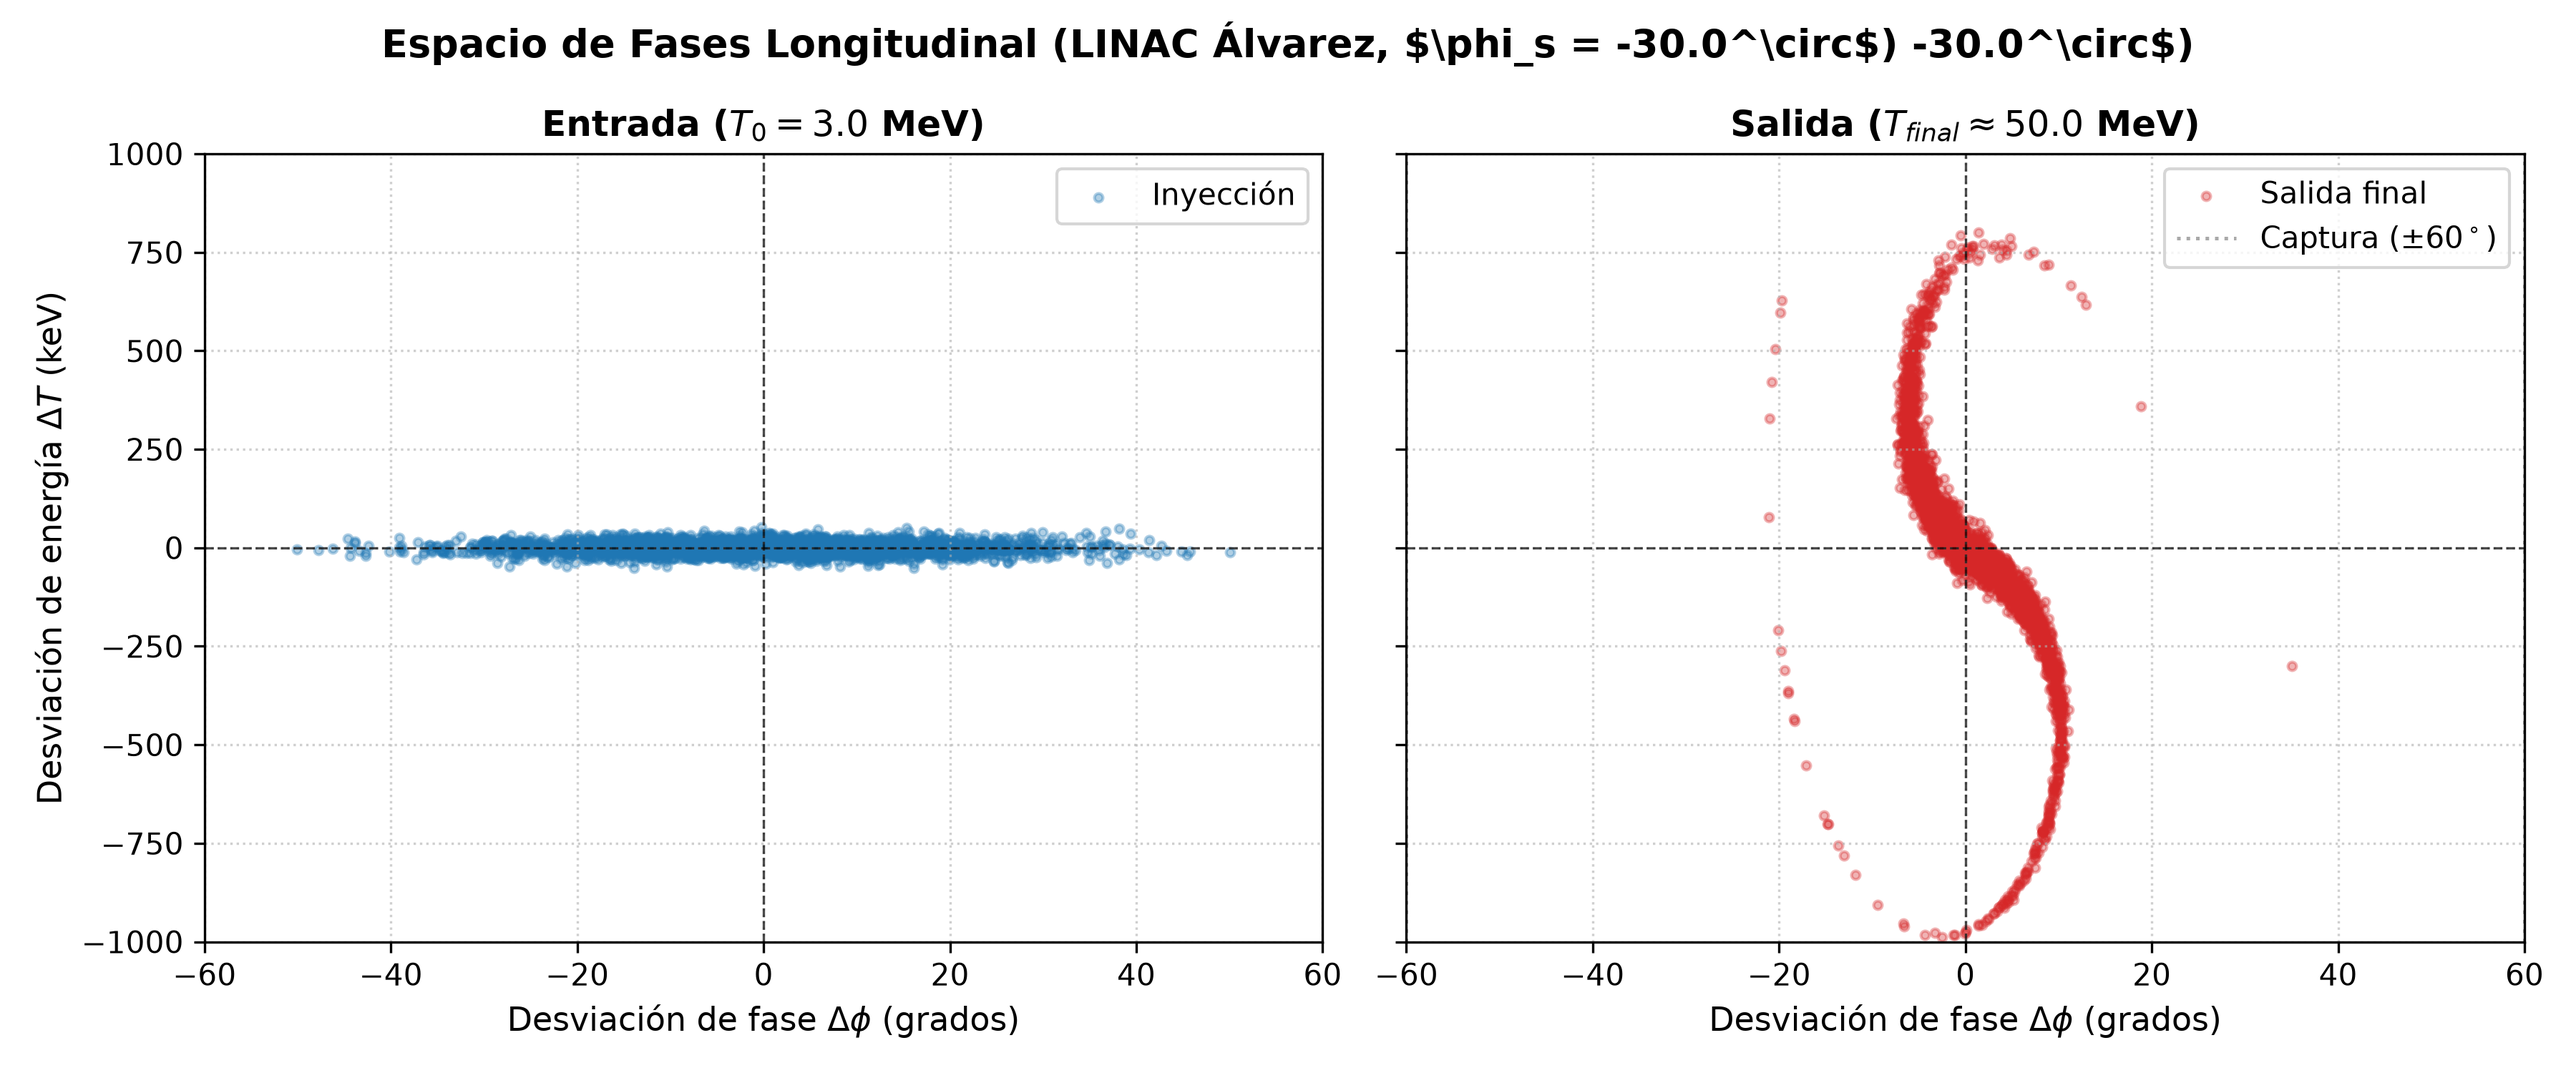
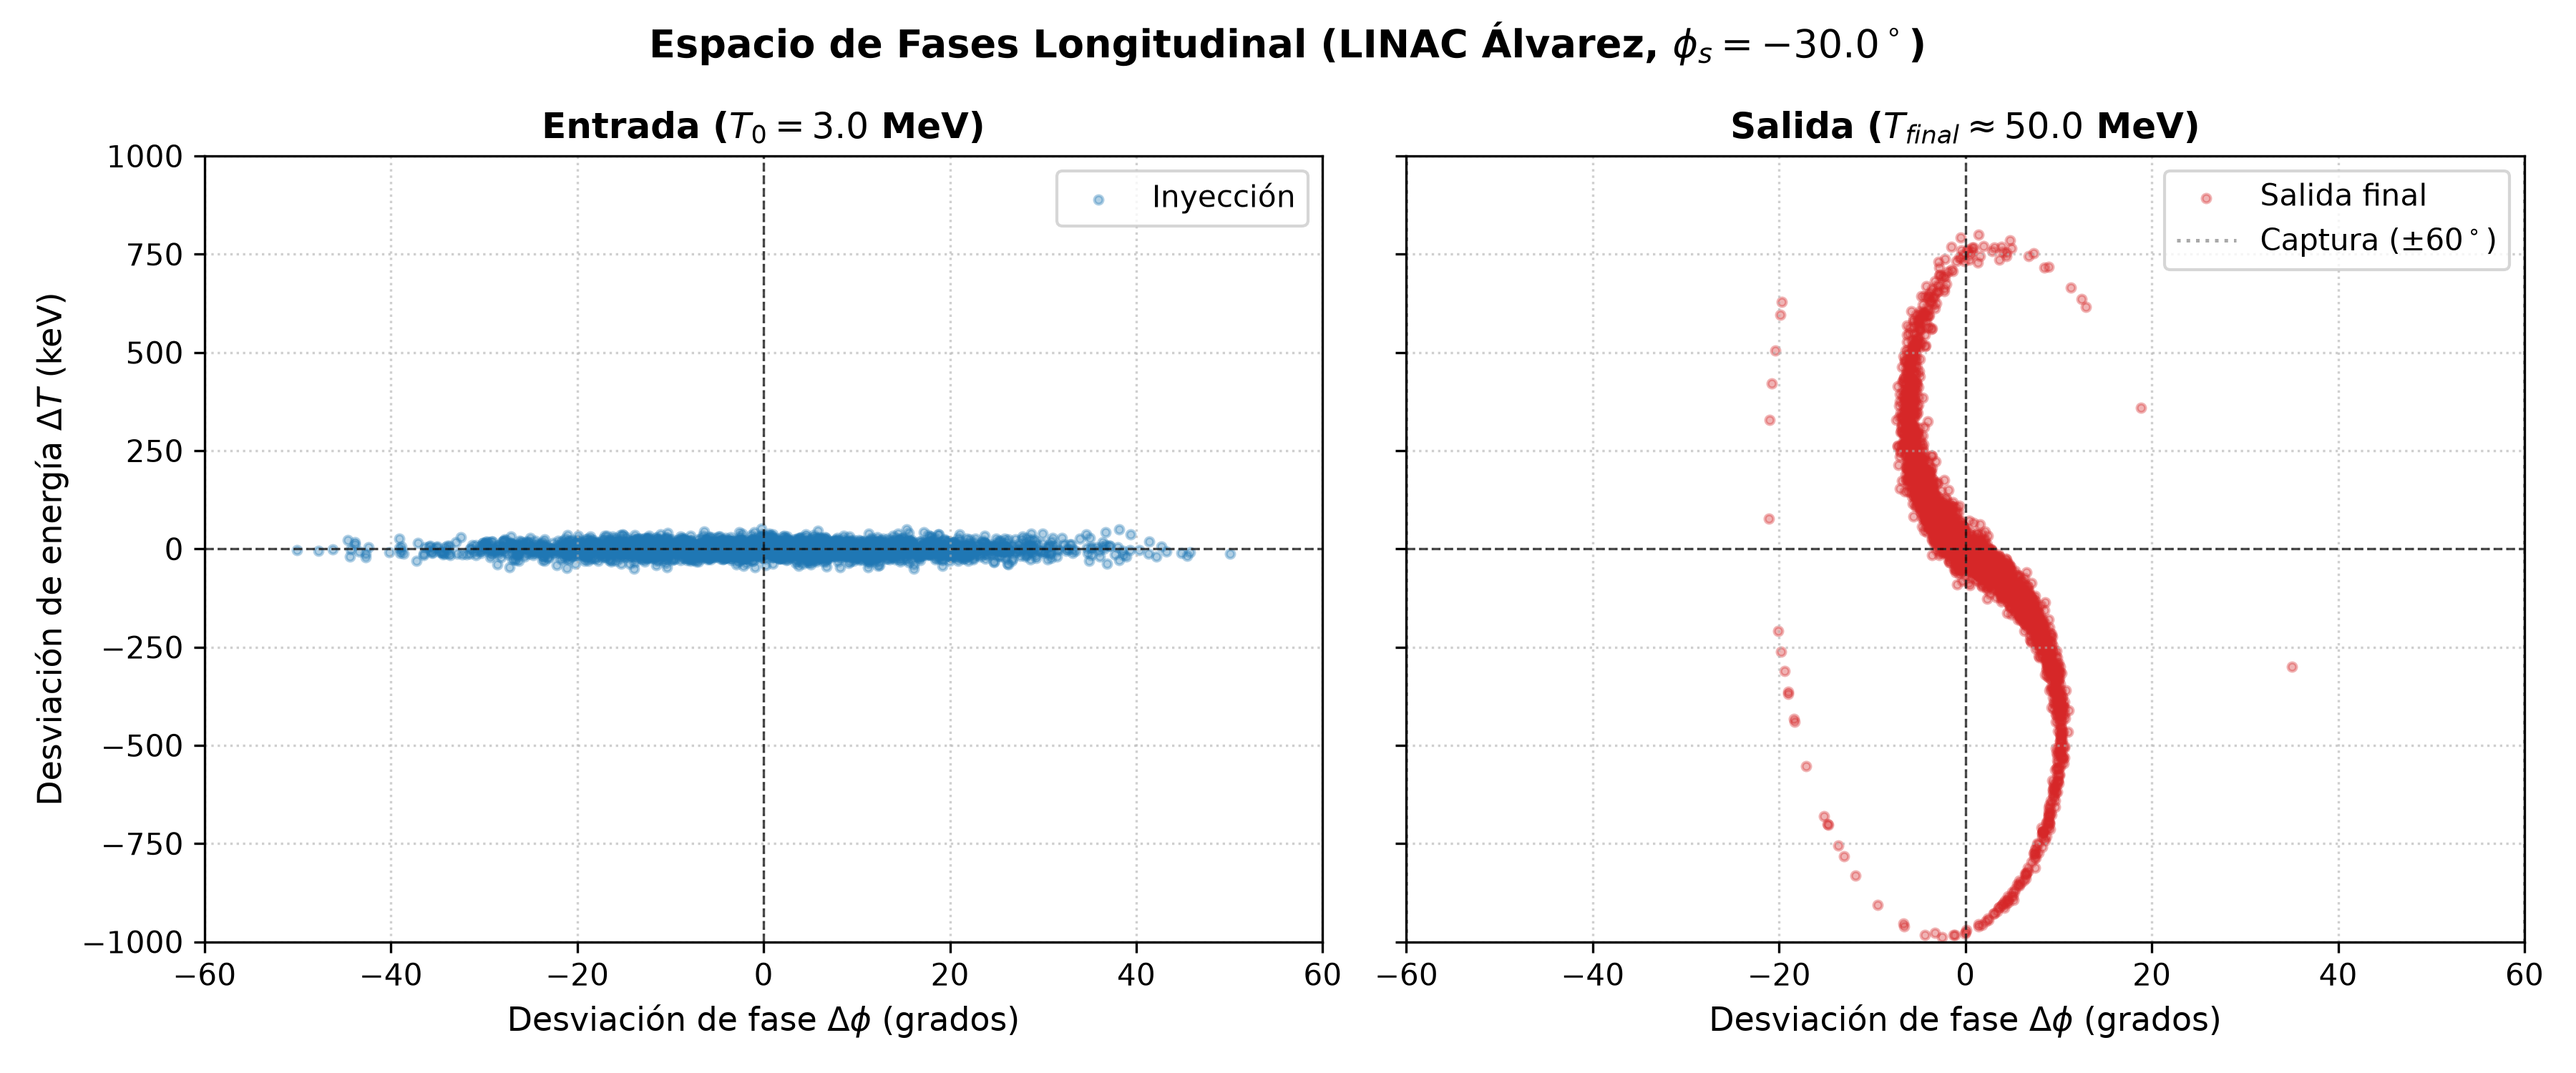
ajustes 25/11/2026

diff --git a/src/visualizer.py b/src/visualizer.py
@@ -17,10 +17,10 @@ def plot_phase_space(
     filename: str = "fig_espacio_fases.png",
 ):
     """Grafica la distribución del paquete de partículas en el espacio de fases
-
     longitudinal (Delta T vs Delta phi) comparando la entrada (celda 0) y la
-    salida.
+    salida (celda 55).
     """
+    
     phi_s_rad = np.radians(phi_s_deg)
 
     # 1. Desviaciones de fase (grados) y energía (keV) en la entrada y salida[cite: 15, 19]
@@ -84,8 +84,7 @@ def plot_phase_space(
     ax2.legend(loc="upper right")
 
     plt.suptitle(
-        rf"Espacio de Fases Longitudinal (LINAC Álvarez, $\phi_s = {phi_s_deg}^\circ$)"
-        f" {phi_s_deg}^\circ$)",
+        rf"Espacio de Fases Longitudinal (LINAC Álvarez, $\phi_s = {phi_s_deg}^\circ$)",
         fontsize=13,
         fontweight="bold",
     )
@@ -109,7 +108,7 @@ def plot_cell_lengths(
     fig, ax = plt.subplots(figsize=(7, 4.5))
 
     cells = np.arange(1, len(cell_lengths) + 1)
-    lengths_cm = cell_lengths * 100.0  # Convertir a cm[cite: 18]
+    lengths_cm = cell_lengths * 100.0  # Convertir a cm
 
     ax.plot(
         cells,
@@ -174,7 +173,7 @@ def plot_electric_field_profile(
     )
 
     ax.set_xlabel("Posición longitudinal $z$ (m)", fontsize=11)
-    ax.set_ylabel("Gradiente de Campo Eléctrico (MV/m)", fontsize=11)
+    ax.set_ylabel("Gradiente de Campo Eléctrico (MeV/m)", fontsize=11)
     ax.set_title(
         "Atenuación Geométrica del Campo Eléctrico vs Distancia Real",
         fontsize=12,

diff --git a/src/linac_design.py b/src/linac_design.py
@@ -93,10 +93,7 @@ if __name__ == "__main__":
     )
     print("=========================================")
 
-import csv
-import os
-import numpy as np
-from physics import M_PROTON_MEV, get_beta, get_gamma
+
 
 
 def export_design_to_csv(
